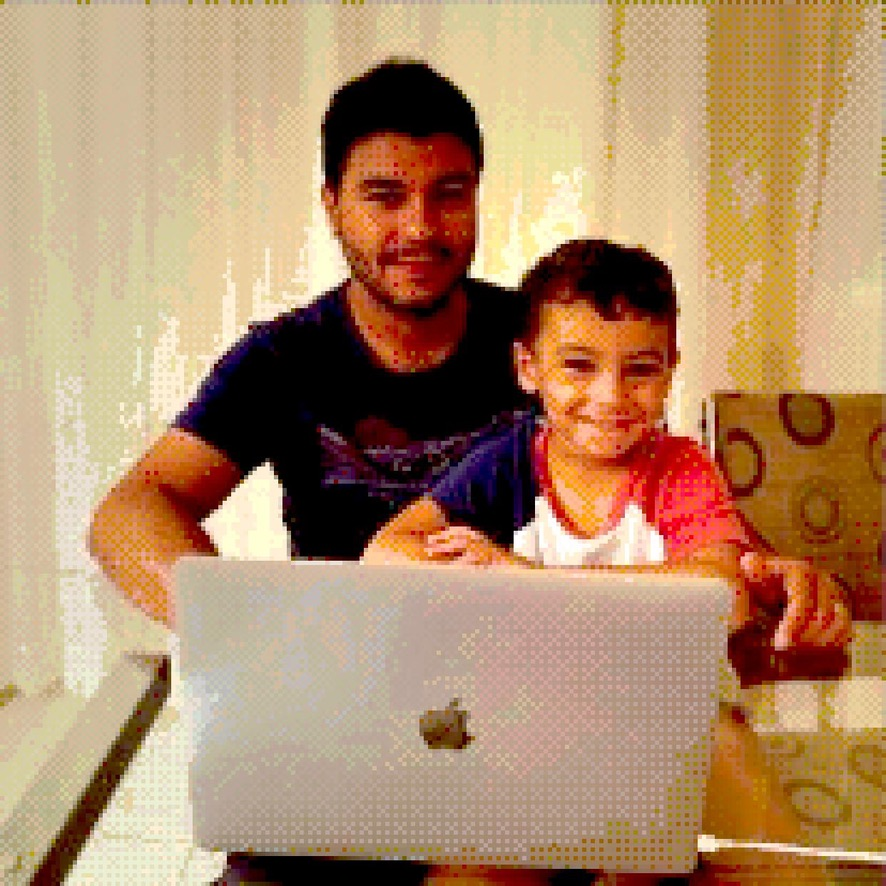
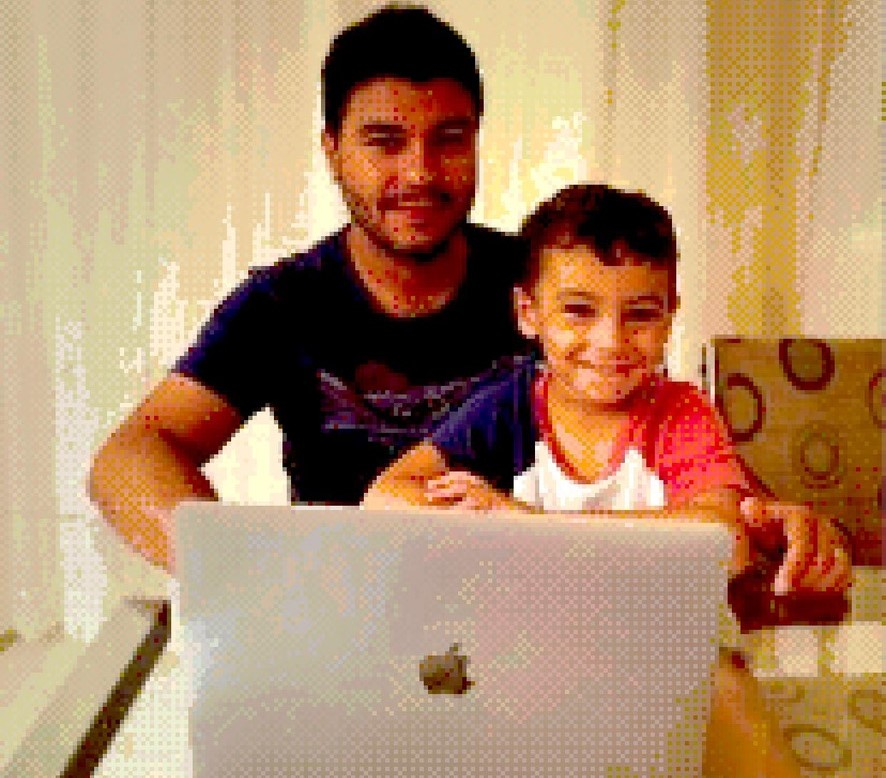
implementing index.html

diff --git a/css/components/banner.css b/css/components/banner.css
@@ -3,7 +3,7 @@
     background-image: url(../../assets/img/photo.png);
     background-repeat: no-repeat;
     background-size: 100%;
-    height: 1200px;
+    height: 1250px;
     border-bottom: 10px solid #000;
     padding-top: 100px;
     padding-right: 30px;
@@ -20,8 +20,9 @@
 .banner .navigation {
     display: flex;
     justify-content: space-around;
+    display: none;
 }
 
 .banner .box {
-    margin-bottom: 30px;
+    margin-bottom: 20px;
 }
